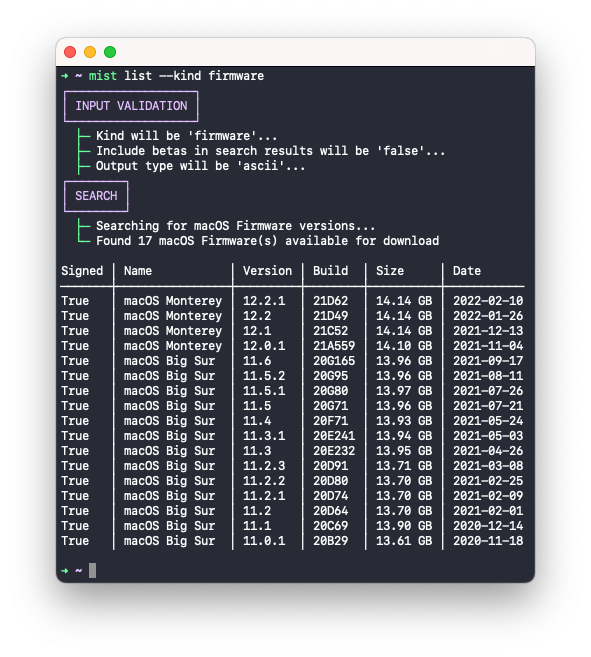
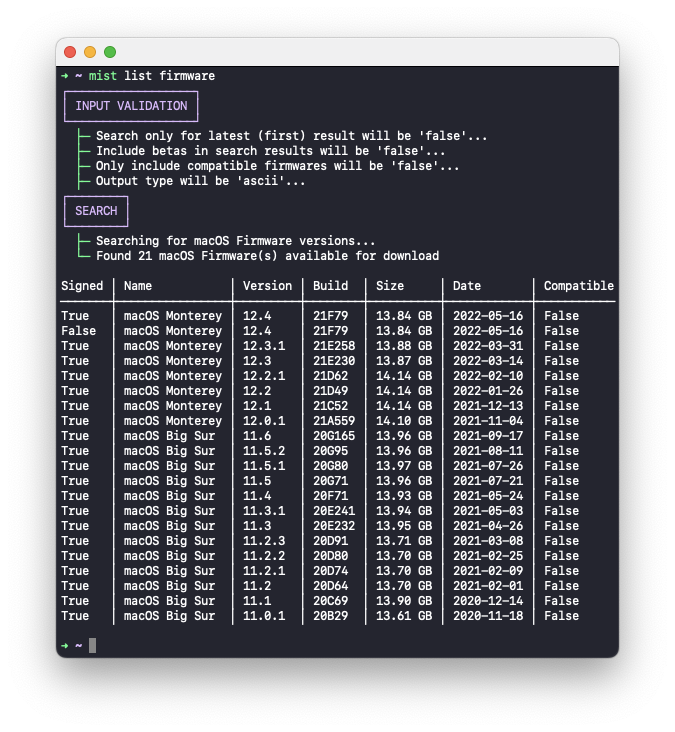
Version bump

Changed region(s): [[0.0609, 0.0609, 0.9442, 0.9132]]

diff --git a/Mist/Extensions/String+Extension.swift b/Mist/Extensions/String+Extension.swift
@@ -30,22 +30,14 @@ extension String {
     }
 
     static let appName: String = "mist"
-    static var identifier: String { "com.ninxsoft.\(appName)" }
+    static let identifier: String = "com.ninxsoft.\(appName)"
     static let abstract: String = "macOS Installer Super Tool."
-    static let discussion: String = "Automatically download macOS Installers / Firmwares."
+    static let discussion: String = "Automatically download macOS Firmwares / Installers."
     static let temporaryDirectory: String = "/private/tmp/com.ninxsoft.mist"
     static let outputDirectory: String = "/Users/Shared/Mist"
     static let filenameTemplate: String = "Install %NAME% %VERSION%-%BUILD%"
     static let repositoryURL: String = "https://github.com/ninxsoft/\(appName)"
     static let latestReleaseURL: String = "https://api.github.com/repos/ninxsoft/\(appName)/releases/latest"
-
-    func wrappedInPropertyList() -> String {
-        "<?xml version=\"1.0\"?>" +
-        "<!DOCTYPE plist PUBLIC \"-//Apple Computer//DTD PLIST 1.0//EN\" \"http://www.apple.com/DTDs/PropertyList-1.0.dtd\">" +
-        "<plist version=\"1.0\">" +
-        self +
-        "</plist>"
-    }
 
     func color(_ color: Color) -> String {
         color.rawValue + self + Color.reset.rawValue

diff --git a/Mist/Commands/Version/Version.swift b/Mist/Commands/Version/Version.swift
@@ -11,7 +11,7 @@ import Foundation
 struct Version {
 
     /// Current version.
-    private static let version: String = "1.7.0"
+    private static let version: String = "1.8"
     /// Current version with error message when unable to lookup latest version.
     private static var versionWithErrorMessage: String {
         "\(version) (Unable to check for latest version)"

diff --git a/README.md b/README.md
@@ -1,18 +1,21 @@
 # MIST - macOS Installer Super Tool
 
-A Mac command-line tool that automatically downloads **macOS Installers** / **Firmwares**:
-
-![Installers](README%20Resources/Installers.png)
+A Mac command-line tool that automatically downloads **macOS Firmwares** / **Installers**:
 
 ![Firmwares](README%20Resources/Firmwares.png)
 
+![Installers](README%20Resources/Installers.png)
+
 ## Features
 
-- [x] List all available macOS Installers / Firmwares available for download:
+- [x] List all available macOS Firmwares / Installers available for download:
   - Display names, versions, builds, sizes and release dates
   - Additionally list beta versions of macOS in search results
   - Optionally export list as **CSV**, **JSON**, **Property List** or **YAML**
-- [x] Download an available macOS Installer / Firmware:
+- [x] Download an available macOS Firmware / Installer:
+  - For Apple Silicon Macs:
+    - Download a Firmware Restore file (.ipsw)
+    - Validates the SHA-1 checksum upon download
   - For Intel based Macs (Universal for macOS Big Sur and later):
     - Generate an Application Bundle (.app)
     - Generate a Disk Image (.dmg)
@@ -22,20 +25,20 @@ A Mac command-line tool that automatically downloads **macOS Installers** / **Fi
       - Supports packages on **macOS Big Sur and newer** with a massive 12GB+ payload!
     - Optionally codesign Disk Images and macOS Installer Packages
     - Check for free space before attempting any downloads or installations
+    - Cache downloads to speed up build operations
     - Optionally specify a custom catalog URL, allowing you to list and download macOS Installers from the following:
       - **Customer Seed** - AppleSeed Program
       - **Developer Seed** - Apple Developer Program
       - **Public Seed** - Apple Beta Software Program
-  - For Apple Silicon Macs:
-    - Download a Firmware Restore file (.ipsw)
-    - Validates the SHA-1 checksum upon download
+    - Validates the Chunklist checksums upon download
+  - Automatic retries for failed downloads!
 
 ## Usage
 
 ```bash
 OVERVIEW: macOS Installer Super Tool.
 
-Automatically download macOS Installers / Firmwares.
+Automatically download macOS Firmwares / Installers.
 
 USAGE: mist <subcommand>
 
@@ -43,8 +46,8 @@ OPTIONS:
   -h, --help              Show help information.
 
 SUBCOMMANDS:
-  list                    List all macOS Installers / Firmwares available to download.
-  download                Download a macOS Installer / Firmware.
+  list                    List all macOS Firmwares / Installers available to download.
+  download                Download a macOS Firmware / Installer.
   version                 Display the version of mist.
 
   See 'mist help <subcommand>' for detailed help.
@@ -54,63 +57,62 @@ SUBCOMMANDS:
 
 ```bash
 # List all available macOS Firmwares for Apple Silicon Macs:
-mist list --kind "firmware"
+mist list firmware
 
 # List all available macOS Installers for Intel Macs,
 # including Universal Installers for macOS Big Sur and later:
-mist list --kind "installer"
+mist list installer
 
 # List all available macOS Installers for Intel Macs, including betas,
 # also including Universal Installers for macOS Big Sur and later:
-mist list --kind "installer" --include-betas
+mist list installer --include-betas
 
 # List only macOS Monterey Installers for Intel Macs,
 # including Universal Installers for macOS Big Sur and later:
-mist list "macOS Monterey" --kind "installer"
+mist list installer "macOS Monterey"
 
 # List only the latest macOS Monterey Installer for Intel Macs,
 # including Universal Installers for macOS Big Sur and later:
-mist list "macOS Monterey" --kind "installer" --latest
+mist list installer --latest "macOS Monterey"
 
 # List + Export macOS Installers to a CSV file:
-mist list --export "/path/to/export.csv"
+mist list installer --export "/path/to/export.csv"
 
 # List + Export macOS Installers to a JSON file:
-mist list --export "/path/to/export.json"
+mist list installer --export "/path/to/export.json"
 
 # List + Export macOS Installers to a Property List:
-mist list --export "/path/to/export.plist"
+mist list installer --export "/path/to/export.plist"
 
 # List + Export macOS Installers to a YAML file:
-mist list --export "/path/to/export.yaml"
+mist list installer --export "/path/to/export.yaml"
 
 # Download the latest macOS Monterey Firmware for
 # Apple Silicon Macs, with a custom name:
-mist download "Monterey" --kind "firmware" --firmware-name "Install %NAME% %VERSION%-%BUILD%.ipsw"
+mist download firmware "macOS Monterey" --firmware-name "Install %NAME% %VERSION%-%BUILD%.ipsw"
 
 # Download the latest macOS Monterey Installer for Intel Macs,
 # including Universal Installers for macOS Big Sur and later:
-mist download "Monterey" --kind "installer" --application
+mist download installer "macOS Monterey" application
 
 # Download a specific macOS Installer version for Intel Macs,
 # including Universal Installers for macOS Big Sur and later:
-mist download "12.2.1" --application
+mist download installer "12.2.1" application
 
 # Download a specific macOS Installer version for Intel Macs,
 # including Universal Installers for macOS Big Sur and later,
 # with a custom name:
-mist download "12.2.1" --application --application-name "Install %NAME% %VERSION%-%BUILD%.app"
+mist download installer "12.2.1" application --application-name "Install %NAME% %VERSION%-%BUILD%.app"
 
 # Download a specific macOS Installer version for Intel Macs,
 # including Universal Installers for macOS Big Sur and later,
 # and generate a Disk Image with a custom name:
-mist download "12.2.1" --image --image-name "Install %NAME% %VERSION%-%BUILD%.dmg"
+mist download installer "12.2.1" image --image-name "Install %NAME% %VERSION%-%BUILD%.dmg"
 
 # Download a specific macOS Installer build for Inte Macs,
 # including Universal Installers for macOS Big Sur and later,
 # and generate a codesigned Disk Image output to a custom directory:
-mist download "21D62" \
-     --image \
+mist download installer "21D62" image \
      --image-signing-identity "Developer ID Application: Name (Team ID)" \
      --output-directory "/path/to/custom/directory"
 
@@ -119,15 +121,11 @@ mist download "21D62" \
 # and generate an Installer Application bundle, a Disk Image,
 # a Bootable Disk Image, a macOS Installer Package,
 # all with custom names, codesigned, output to a custom directory:
-mist download "Monterey" \
-     --application \
+mist download installer "macOS Monterey" application image iso package \
      --application-name "Install %NAME% %VERSION%-%BUILD%.app" \
-     --image \
      --image-name "Install %NAME% %VERSION%-%BUILD%.dmg" \
      --image-signing-identity "Developer ID Application: Name (Team ID)" \
-     --iso \
      --iso-name "Install %NAME% %VERSION%-%BUILD%.iso" \
-     --package \
      --package-name "Install %NAME% %VERSION%-%BUILD%.pkg" \
      --package-identifier "com.mycompany.pkg.install-%NAME%" \
      --package-signing-identity "Developer ID Installer: Name (Team ID)" \
@@ -137,11 +135,11 @@ mist download "Monterey" \
 ## Build Requirements
 
 - Swift **5.5**.
-- Runs on macOS Yosemite **10.10** and later.
+- Runs on **macOS Catalina 10.15** and later.
 
 ## Download
 
-- Grab the latest version of **Mist** from the [releases page](https://github.com/ninxsoft/MIST/releases).
+- Grab the latest version of **Mist** from the [releases page](https://github.com/ninxsoft/Mist/releases).
 - Alternatively, install via [Homebrew](https://brew.sh) by running `brew install mist`
 
 ## Credits / Thank You
@@ -154,7 +152,34 @@ mist download "Monterey" \
 
 ## Version History
 
-- 1.7.0
+- 1.8
+
+  - `mist` is now a [Universal macOS Binary](https://developer.apple.com/documentation/apple-silicon/building-a-universal-macos-binary)
+    - Supports Apple Silicon
+    - Supports Intel-based Macs
+  - `mist` now supports automatic retrying failed downloads:
+    - Specify a value to the `--retries` option to override the total number of retry attempts **(default: 10)**
+    - Specify a value to the `--retry-delay` option to override the number of seconds to wait before the next retry attempt **(default: 30)**
+  - To help keep the `mist` command line options unambiguous, the `-k, --kind` option has been removed:
+    - Use `mist list firmware` to list all available macOS Firmwares
+    - Use `mist list installer` to list all available macOS Installers
+    - Use `mist download firmware` to download a macOS Firmware
+    - Use `mist download installer` to download a macOS Installer
+    - Add `--help` to any of the above commands for additional information
+  - Firmware downloads now have `0x644` POSIX permissions correctly applied upon successful download
+  - Installer downloads can be cached using the `--cache-downloads` flag
+    - Cached downloads will be stored in the temporary directory
+    - Supply a value to the `--temporary-directory` option to change the temporary directory location
+  - Installers downloads are now chunklist-verified upon successful download
+  - The `--compatible` flag has been added to `mist list` and `mist download` to list / download Firmwares and Installers compatible with the Mac that is running `mist`
+  - The `--export` option has been added to `mist download` to optionally generate a report of performed actions
+  - The `--quiet` flag has been added to `mist download` to optionally suppress verbose output
+  - Reports exported as JSON now have their keys sorted alphabetically
+  - Bumped [Swift Argument Parser](https://github.com/apple/swift-argument-parser) version to **1.1.2**
+  - Bumped [Yams](https://github.com/jpsim/Yams) version to **5.0.1**
+  - General code refactoring and print message formatting fixes
+
+- 1.7
 
   - The `--platform` option has been renamed to `-k, --kind`, to improve readability and reduce confusion
     - Specify `firmware` or `ipsw` to download a macOS Firmware IPSW file
